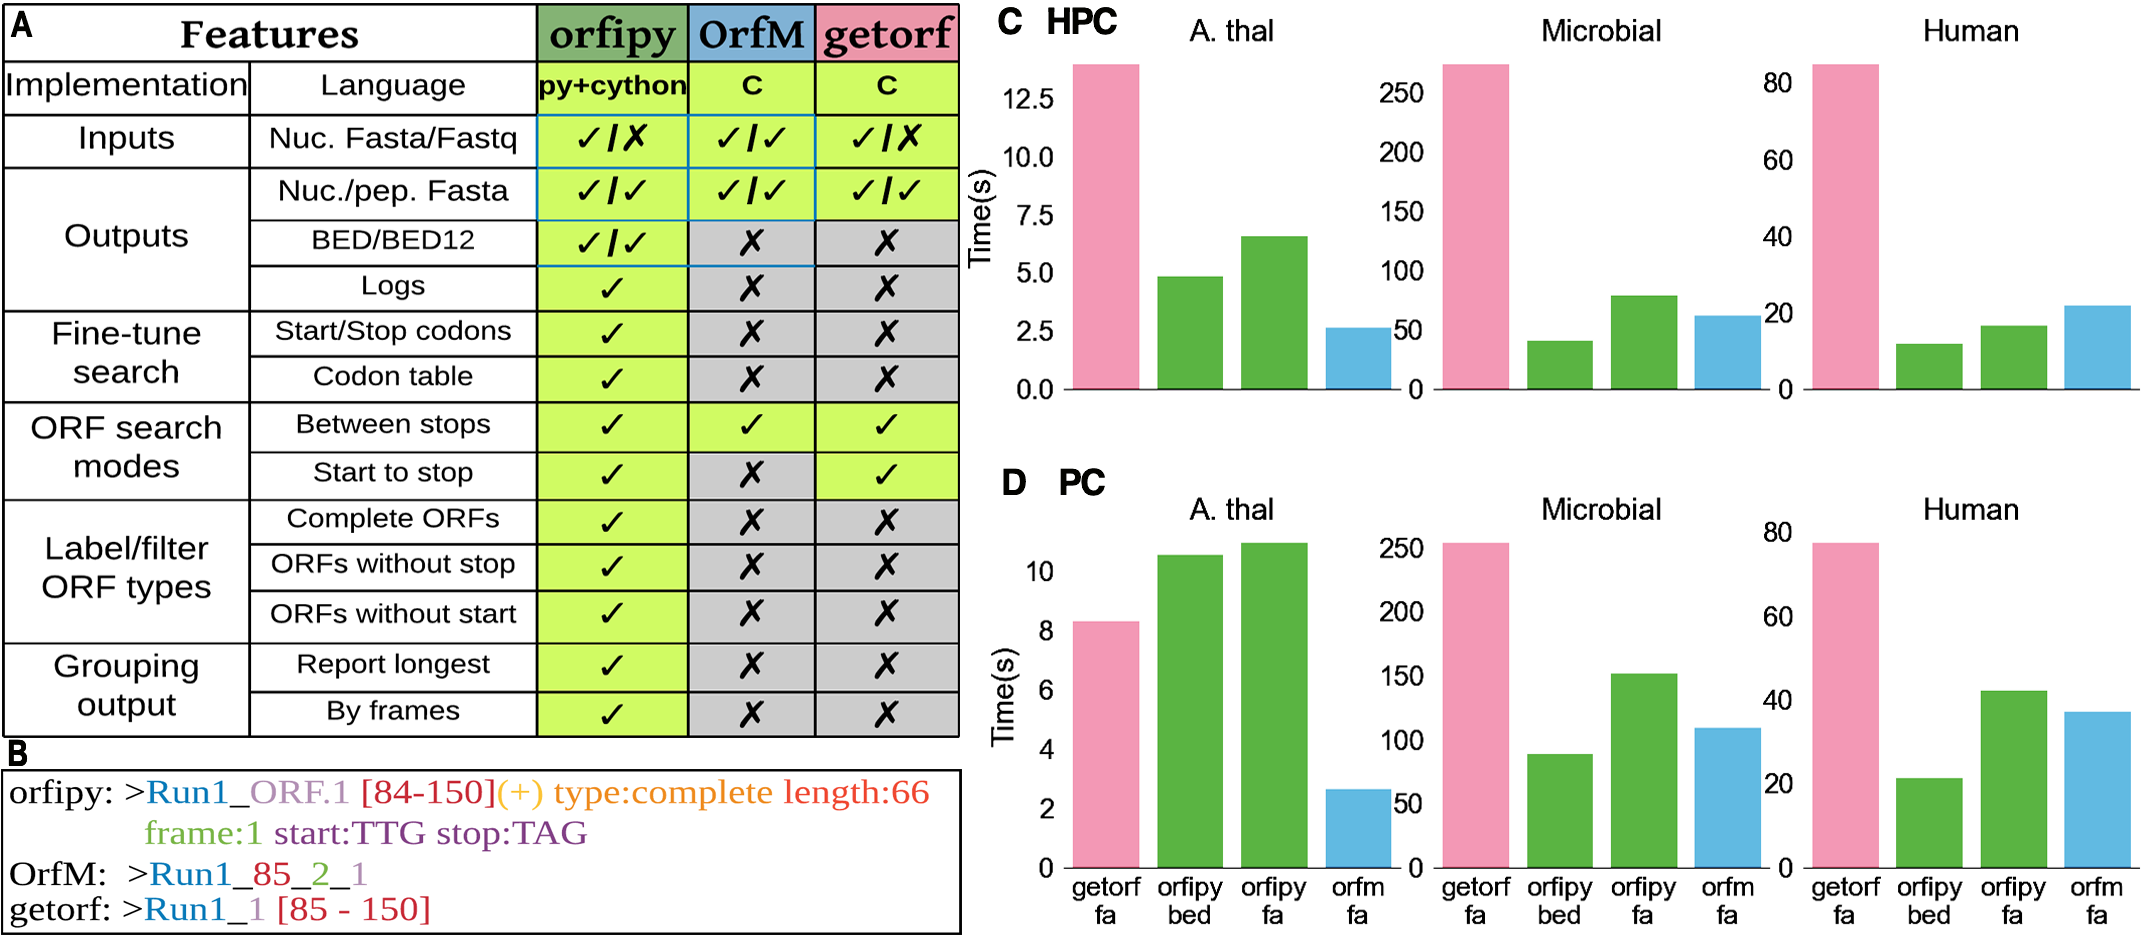
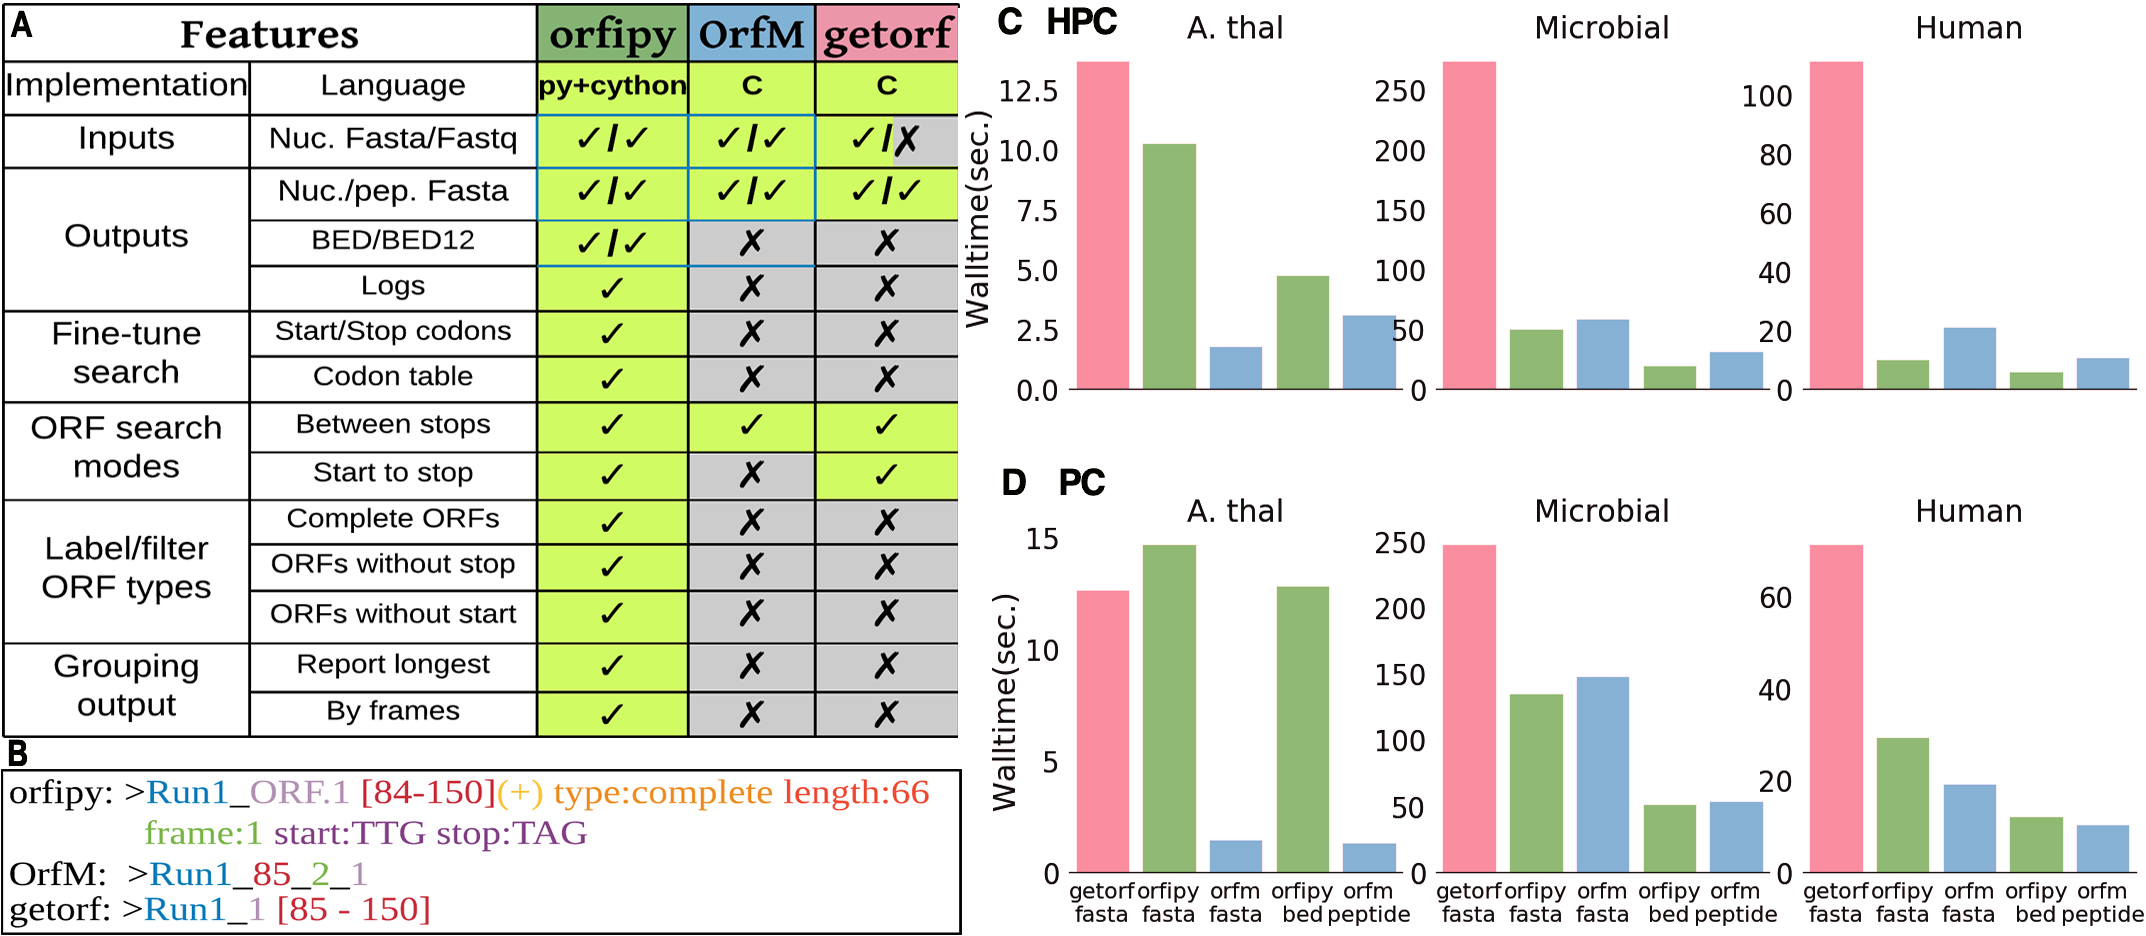
clean-up

diff --git a/scripts/benchmark.py b/scripts/benchmark.py
@@ -27,17 +27,22 @@ minlen=sys.argv[4]
 
 testseq=sys.argv[1]
 #compare orfipy, orfm, getorf
+orfipy_cmd_b=["bash", "run_orfipy_bed.sh",testseq,outdir,minlen,N]
 orfipy_cmd=["bash", "run_orfipy.sh",testseq,outdir,minlen,N]
 orfm_cmd=["bash", "run_orfm.sh",testseq,outdir,minlen,N]
+orfm_cmd_p=["bash", "run_orfm_p.sh",testseq,outdir,minlen,N]
 getorf_cmd=["bash", "run_getorf.sh",testseq,outdir,minlen,N]
-pe.execute_command(getorf_cmd,objectid="test",command_name="getorf")
+
+pe.execute_command(orfipy_cmd_b,objectid="test",command_name="orfipy_b")
 pe.execute_command(orfipy_cmd,objectid="test",command_name="orfipy")
+pe.execute_command(orfm_cmd_p,objectid="test",command_name="orfm_p")
 pe.execute_command(orfm_cmd,objectid="test",command_name="orfm")
+pe.execute_command(getorf_cmd,objectid="test",command_name="getorf")
 
 
 ###Compare orfipy and getorf -3 option
-orfipy_cmd=["bash", "run_orfipy_3.sh",testseq,outdir,minlen,N]
-getorf_cmd=["bash", "run_getorf_3.sh",testseq,outdir,minlen,N]
-pe.execute_command(getorf_cmd,objectid="test",command_name="getorf_3")
-pe.execute_command(orfipy_cmd,objectid="test",command_name="orfipy_3")
+#orfipy_cmd=["bash", "run_orfipy_3.sh",testseq,outdir,minlen,N]
+#getorf_cmd=["bash", "run_getorf_3.sh",testseq,outdir,minlen,N]
+#pe.execute_command(getorf_cmd,objectid="test",command_name="getorf_3")
+#pe.execute_command(orfipy_cmd,objectid="test",command_name="orfipy_3")
 

diff --git a/scripts/compare_fasta_files.py b/scripts/compare_fasta_files.py
@@ -7,6 +7,8 @@ Created on Tue Sep 29 12:38:33 2020
 
 This script takes n fasta files as input and check whether all sequences are same in all files
 This script is quick and not memory efficient; written to test small fasta files.
+Example:
+python compare_fasta_files.py file1.fa file2.fa file3.fa
 """
 import sys
 import pyfastx

diff --git a/scripts/README.md b/scripts/README.md
@@ -2,31 +2,47 @@
 These scripts are helper scripts, but are not included in orfipy package.
 
 
-### Running benchmarks
-The run_benchmarks.sh script runts the tools and compares the runtimes. 
-The runtimes are compared for each tool to report the ORFs in both nucleotide and peptide fasta format.
+## Running benchmarks
+
+### Download data
+
+- Download required data: run `bash prepare_data.sh`. This will download the benchmark data in ../testdata/bmdata directory
+
+
+### Mean runtimes
+
+The run_benchmarks.sh script runs the tools and compares the mean runtimes over n runs. 
+*The runtimes are compared for each tool to report the ORFs in both nucleotide and peptide fasta format.*
 
 To run the comparison reported in the paper:
 
 1. Install the python package pyrpipe version 0.0.4 via `conda install -c bioconda pyrpipe` or `pip install pyrpipe`. The runtimes are recorded via pyrpipe.
-2. Download required data: run `bash prepare_data.sh`. This will download the benchmark data in ../testdata/bmdata directory
-3. Run the comparison `bash run_benchmarks.sh infasta.fa outdir 5 300`. For example to run with human data: `bash run_benchmarks.sh ../testdata/bmdata/human.fa human_out 3 99`
+2. Run the comparison:
 
-#### Run basic benchmark without pyrpipe
-Run the basic_benchmark.sh to measure the runtime for each tool. For example:
+```
+ bash run_benchmarks.sh infasta.fa outdir 5 300
+ 
+```
+
+For example to run with human data: `bash run_benchmarks.sh ../testdata/bmdata/human.fa human_out 3 99` will run the tools 3 times each and find ORFs of length 99 and higher.
+The commands executed for tools are in `run_getorf.sh`  `run_orfipy.sh` and  `run_orfm.sh` files.
+
+### Run basic benchmark without pyrpipe
+Run the basic_benchmark.sh to measure the runtime for each tool using `time`. For example:
 
 ```
 bash basic_benchmark.sh ../testdata/bmdata/human.fa 99 human_basic_out
 ```
-
 First argument is input fasta file, Second is the min orf length, Third is the out directory
 
 
 
 ### Scripts description
 
+* `compare_fasta_files.py`: compare multiple fasta files by sequence. Example: `python compare_fasta_files.py file1.fa file2.fa file3.fa`
 * `parse_NCBI_tables.py`: a python script to parse NCBI trans tables into python dict/json object. The input is in `translationtables.txt` and the output produces is `translation_tables.json`. These tables are included in orfipy.
 * `run_benchmarks.sh`: runs orfipy, getorf and orfm via `pyrpipe` and produces avg runtime for each program. This script calls `benchmark.py` script which executes the tools to search regions between STOP codons and produce nucleotide and peptide fasta files. OrfM only supports this mode. Additionally, it runs getorf to search regions between start and stop codons and equivalent orfipy command. This script takes 4 arguments: 
+
     1. input fasta files to run the tools on
     2. output directory
     3. Num trials to run each tool
